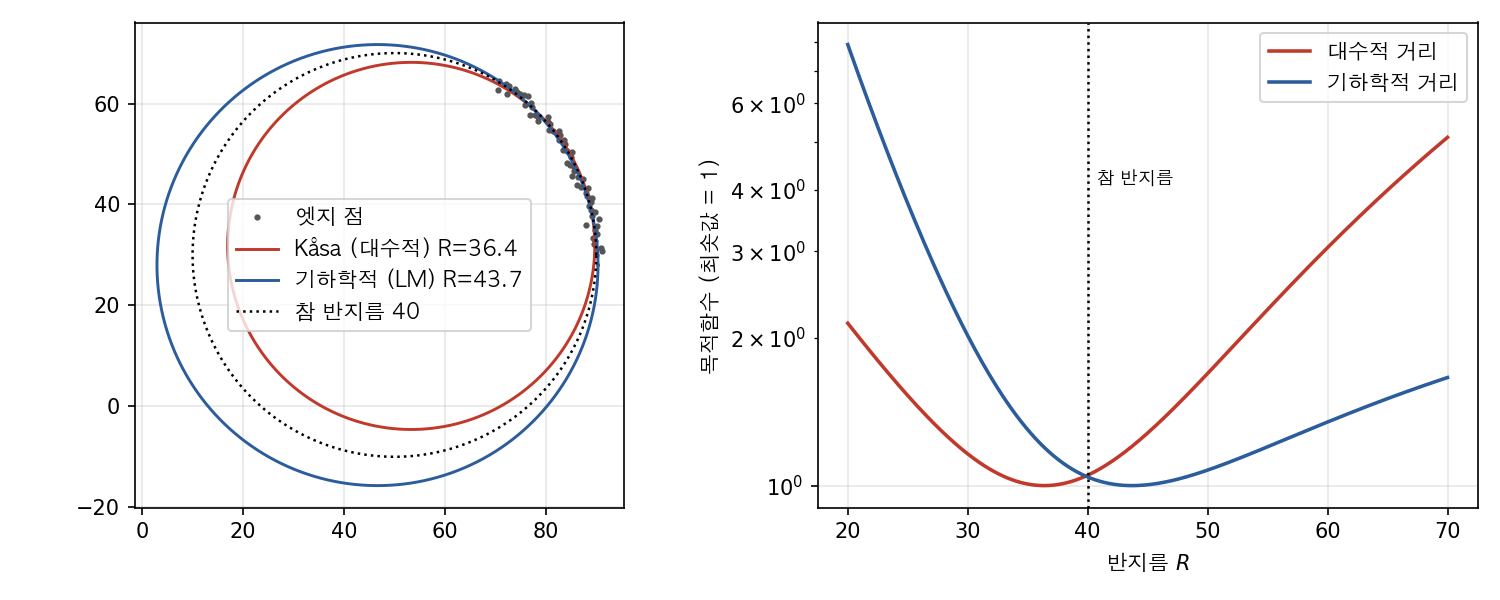
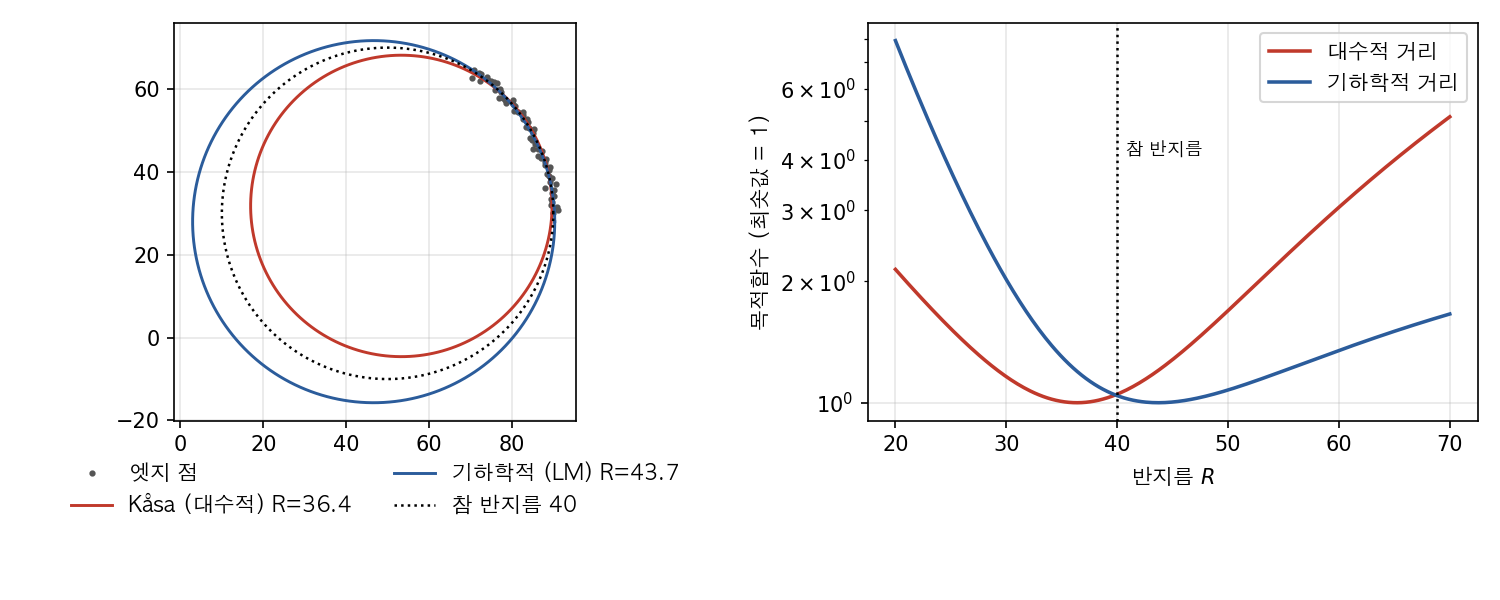
fix(post): imgproc-geometric-fitting — 그림 다시 생성(범례·라벨 겹침, 그림 속 번호·캡션 제거)
그림을 다시 그려야 고칠 수 있던 경미 항목을 고쳤다. 데이터와 계산은 바꾸지 않았다.

근거: _references/imgproc-geometric-fitting/audit-20261015.md (B 경미), 목록 _references/_fig-queue-20261015.md

diff --git a/_code/imgproc-geometric-fitting/generate_figures.py b/_code/imgproc-geometric-fitting/generate_figures.py
@@ -189,14 +189,16 @@ def draw(L):
                                             label=f"{NM['geometric']} R={gR:.1f}")
     cxt, cyt = circ(CX, CY, R_TRUE); ax[0].plot(cxt, cyt, ":", lw=1.2, color="k",
                                                 label=f"{L['truth']} {R_TRUE:.0f}")
-    ax[0].set_aspect("equal"); ax[0].legend(prop=LG, fontsize=8); ax[0].grid(alpha=0.3)
+    ax[0].set_aspect("equal"); ax[0].grid(alpha=0.3)
+    ax[0].legend(prop=LG, fontsize=8, loc="upper center", bbox_to_anchor=(0.5, -0.06),
+                 ncol=2, frameon=False)  # 원과 점을 가리지 않게 축 밖에 둔다
     ax[1].plot(R_scan, cost_alg, "-", lw=1.7, color=COL["kasa"], label=L["alg"])
     ax[1].plot(R_scan, cost_geo, "-", lw=1.7, color=COL["geometric"], label=L["geo"])
     ax[1].axvline(R_TRUE, ls=":", lw=1.2, color="k")
     ax[1].text(R_TRUE + 0.8, cost_alg.max() * 0.8, L["truth"], fontsize=8.5, **F)
     ax[1].set_xlabel(L["radius"], **F); ax[1].set_ylabel(L["cost"], **F)
     ax[1].set_yscale("log"); ax[1].legend(prop=LG, fontsize=9); ax[1].grid(alpha=0.3)
-    cap(fig)
+    cap(fig, rect=(0, 0.08, 1, 1))
     fig.savefig(os.path.join(out, "fig1-algebraic-vs-geometric.png"), dpi=150)
     plt.close(fig)
 
